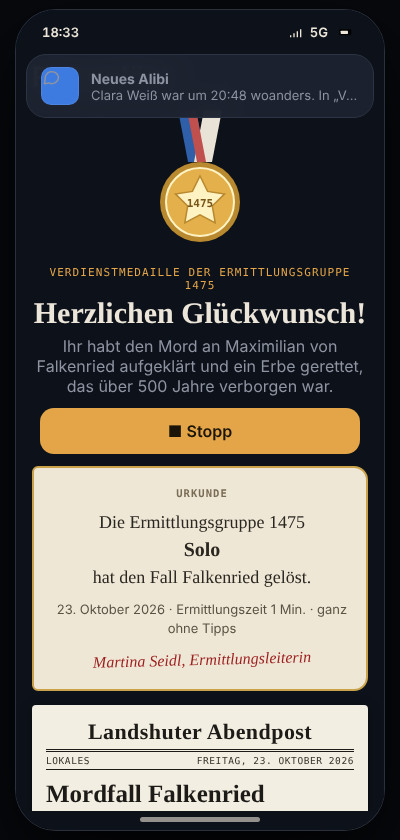
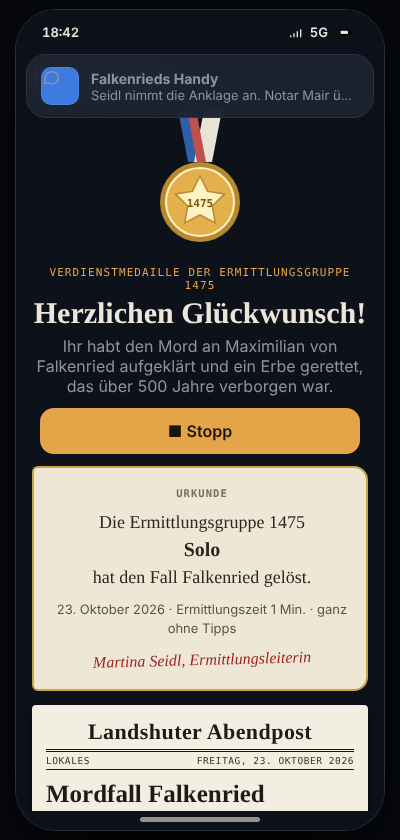
Geführte Hinweise: roter Punkt pro Eintrag, Meldung „Neuer Hinweis“ mit Direktsprung, Hinweisleiste im Auftrag; Siegel der Wittelsbacher
Claude-Session: https://claude.ai/code/session_01WNJHfocEY1Zejxyfbb2F8F

Changed region(s): [[0.24, 0.0619, 0.87, 0.1238], [0.15, 0.031, 0.21, 0.0619]]

diff --git a/src/index.html b/src/index.html
@@ -260,6 +260,10 @@ button:focus-visible,input:focus-visible{outline:2px solid var(--amber);outline-
 .mission .k{font-family:var(--font-mono);font-size:10.5px;letter-spacing:.1em;text-transform:uppercase;color:var(--amber);display:flex;justify-content:space-between;gap:8px}
 .mission .tx{font-size:14.5px;line-height:1.45}
 .mission .clue{font-family:var(--font-display);font-size:19px;line-height:1.3;font-style:italic}
+.ndot{display:inline-block;width:9px;height:9px;border-radius:50%;background:var(--decline);margin-left:6px;vertical-align:middle;box-shadow:0 0 0 2px #0008;flex:none}
+.newsrow{display:flex;align-items:center;gap:10px;width:100%;text-align:left;padding:10px 12px;border-radius:12px;background:#e0555522;border:1px solid #e0555566;font-size:14px;font-weight:600;color:var(--text,#ece6da)}
+.newsrow .ndot{margin:0}.newsrow small{display:block;font-weight:400;color:var(--muted);font-size:12px;margin-top:2px}.newsrow .go2{margin-left:auto;color:#ff8a8a;font-size:13px;white-space:nowrap}
+.ddots i.nw{background:var(--decline)!important}
 .mission .acts{display:flex;flex-wrap:wrap;gap:8px}
 .mission .acts button{padding:8px 12px;border-radius:10px;background:var(--surface-2);font-size:13px;font-weight:600}
 .mission .acts button.tip{margin-left:auto;background:#e3a5481f;color:var(--amber)}
@@ -474,7 +478,7 @@ const CONTENT = {
   evidence: {
     E01:{ t:"Hochzeitsrechnung 1475", d:"Abschrift aus Falkenrieds Manteltasche. Vermerk: Bezahlt hat nicht der Bräutigam." },
     E03:{ t:"Notizen zur Fassade", d:"Der Kaiser gab Landshut drei Helme ins Wappen. Ludwig X. begann seine Residenz erst 1536. Unter Heinrich dem Reichen begann 1407 der Bau der Heiliggeistkirche." },
-    E05:{ t:"Inventarvergleich", d:"In der Liste von 1503 fehlen die Nummern 2, 5 und 7: Rubinbrosche, zehn goldene Taler, Familiensiegel mit dem W. Falkenried notierte daneben: „Hochzeitsgaben, Kiste A, B, C“." },
+    E05:{ t:"Inventarvergleich", d:"In der Liste von 1503 fehlen die Nummern 2, 5 und 7: Rubinbrosche, zehn goldene Taler, Familiensiegel mit dem W der Wittelsbacher. Falkenried notierte daneben: „Hochzeitsgaben, Kiste A, B, C“." },
     E06:{ t:"Verwahrvermerk Notariat Mair", d:"„Notariat Mair – Verwahrung“. Inhalt geschwärzt." },
     E07:{ t:"Preisnotizen „CW“", d:"Bleistift am Rand von H-1475: „CW: 40.000?“" },
     E08:{ t:"Brief „1503“ – gefälscht", d:"Nennt eine Residenz, deren Bau erst 1536 begann. Zweck laut Seidl: eine falsche Herkunft, damit die Stücke für einen Käufer echt und wertvoll aussehen." },
@@ -529,7 +533,7 @@ try { const raw = localStorage.getItem(KEY); if (raw) S = Object.assign(fresh(),
 let PUZZLE_2, PUZZLE_3, PUZZLE_4, PUZZLE_5, PUZZLE_6, PUZZLE_7, PUZZLE_8;
 const PUZZLE = { 1:() => openFaceLock(), 2:() => PUZZLE_2(), 3:() => PUZZLE_3(), 4:() => PUZZLE_4(), 5:() => PUZZLE_5(), 6:() => PUZZLE_6(), 7:() => PUZZLE_7(), 8:() => PUZZLE_8() };
 const AFTER_CALL = {};
-const APP_VIEW = { notizen:() => openNotebook(), tresor:() => (S.ending ? showEnding() : tresor()) };
+const APP_VIEW = { notizen:() => { if (diaryPages().some(d => isNew("notizen", d.date))) nbPage = null; openNotebook(); }, tresor:() => (S.ending ? showEnding() : tresor()) };
 const localSave = () => { try { localStorage.setItem(KEY, JSON.stringify(S)); } catch(e) {} };
 const save = () => { localSave(); schedulePush(); };
 
@@ -715,7 +719,6 @@ function openFolder(){
 let phoneTab = "anrufe";
 function openPhone(){
   if (newsUnseen("telefon").length) phoneTab = "mailbox";
-  if (phoneTab === "mailbox") newsMark("telefon");
   S.missed = 0; save();
   const list = S.calls.slice().reverse();
   const calls = list.length ? list.map((c,i) => `
@@ -725,10 +728,10 @@ function openPhone(){
       <span class="meta">${esc(c.time)}</span></button>`).join("")
     : `<div class="empty">Noch keine Anrufe.</div>`;
   const box = S.voicemails.length ? S.voicemails.slice().reverse().map(v => { const V = CONTENT.voice[v]; return `
-    <button class="row" data-vm="${v}"><span class="av">▶</span><span class="main"><span class="t">${esc(V.from)}</span>
+    <button class="row" data-vm="${v}"><span class="av">▶</span><span class="main"><span class="t">${esc(V.from)}${isNew("telefon", v) ? '<i class="ndot"></i>' : ""}</span>
     <span class="s">${esc(V.title)}${V.memo ? " · Memo, " + esc(V.memo.split("aufgenommen am ")[1] || "") : ""}</span></span></button>`; }).join("")
     : `<div class="empty">Keine Sprachnachrichten.<br>Falkenrieds Mailbox füllt sich, wenn ihr seinen Spuren folgt.</div>`;
-  openWin("Telefon", `<div class="seg"><button class="${phoneTab==='anrufe'?'on':''}" data-tab="anrufe">Anrufe</button><button class="${phoneTab==='mailbox'?'on':''}" data-tab="mailbox">Mailbox</button></div>${phoneTab==='anrufe'?calls:box}`);
+  openWin("Telefon", `<div class="seg"><button class="${phoneTab==='anrufe'?'on':''}" data-tab="anrufe">Anrufe</button><button class="${phoneTab==='mailbox'?'on':''}" data-tab="mailbox">Mailbox${newsUnseen("telefon").length ? '<i class="ndot"></i>' : ""}</button></div>${phoneTab==='anrufe'?calls:box}`);
   $("#winBody").onclick = e => {
     const tab = e.target.closest("[data-tab]"); if (tab) { phoneTab = tab.dataset.tab; return openPhone(); }
     const r = e.target.closest("[data-call]"); if (r) showCallDetail(S.calls[+r.dataset.call]);
@@ -750,18 +753,17 @@ function showCallDetail(c){
    Nachrichten
    ============================================================ */
 function openThreads(){
-  newsMark("nachrichten");
   const th = S.threads.unbekannt;
   const last = th[th.length-1];
   const mail = S.stage >= 7 ? `<button class="row" data-mail="1"><span class="av">${svg("mail")}</span>
-      <span class="main"><span class="t">Postfach · Kripo</span><span class="s">${S.st.s7 && S.st.s7.decoded ? "ABHOLUNG · Drei Stücke aus der Falkenried-Sammlung" : "Kuriernachricht vom Tatabend, verschlüsselt"}</span></span></button>` : "";
+      <span class="main"><span class="t">Postfach · Kripo${isNew("nachrichten","postfach") ? '<i class="ndot"></i>' : ""}</span><span class="s">${S.st.s7 && S.st.s7.decoded ? "ABHOLUNG · Drei Stücke aus der Falkenried-Sammlung" : "Kuriernachricht vom Tatabend, verschlüsselt"}</span></span></button>` : "";
   const html = (th.length ? `<button class="row" data-thread="unbekannt"><span class="av">?</span>
-      <span class="main"><span class="t">Unbekannt</span><span class="s">${esc(last.text)}</span></span><span class="meta">${esc(last.time)}</span></button>` : "") + mail;
+      <span class="main"><span class="t">Unbekannt${th.some((m, i) => isNew("nachrichten", m.id || "m" + i)) ? '<i class="ndot"></i>' : ""}</span><span class="s">${esc(last.text)}</span></span><span class="meta">${esc(last.time)}</span></button>` : "") + mail;
   openWin("Nachrichten", html || `<div class="empty">Keine Nachrichten.</div>`);
-  $("#winBody").onclick = e => { if (e.target.closest("[data-thread]")) openChat(); if (e.target.closest("[data-mail]")) { if (S.stage === 7 && S.phase === "task" && !ackGate()) return; PUZZLE_7(); } };
+  $("#winBody").onclick = e => { if (e.target.closest("[data-thread]")) openChat(); if (e.target.closest("[data-mail]")) openPostfach(); };
 }
 function openChat(){
-  S.unread = 0; save();
+  S.unread = 0; save(); newsSeen("nachrichten", ...S.threads.unbekannt.map((m, i) => m.id || "m" + i));
   const th = S.threads.unbekannt;
   const html = `<div class="chat"><span class="sys">Nummer unterdrückt</span>${th.map(m => `
     <div class="bub ${m.attachment?'att':''}">${esc(m.text)}${m.attachment?`<br><br><button class="attbtn" data-att="${esc(m.attachment)}">📎 ${esc(m.attachment)} <span style="font-size:12px;opacity:.7">· öffnen</span></button>`:""}<span class="when">${esc(m.time)}</span></div>`).join("")}</div>`;
@@ -800,18 +802,18 @@ function alibiCheck(){
   const names = add.map(id => CONTENT.suspects.find(p => p.id === id).name).join(", ");
   setTimeout(() => banner("Neues Alibi", names + " war um 20:48 woanders. In „Verdächtige“ streichen.", () => { closeSheet(); openSuspects(); }), $("#banner") ? 6500 : 0);
 }
-setInterval(alibiCheck, 1500);
+/* Alibis melden jetzt die allgemeinen Hinweise (newsCheck) */
 function personCard(p, cls, attr){
   return `<button class="card ${cls||""}" ${attr||""}>
-    <span class="av">${p.photo ? `<img src="${p.photo.replace(".jpg","_av.jpg")}" alt="">` : esc(p.name[0])}</span><span class="n">${esc(p.name)}, ${p.age}</span>
+    <span class="av">${p.photo ? `<img src="${p.photo.replace(".jpg","_av.jpg")}" alt="">` : esc(p.name[0])}</span><span class="n">${esc(p.name)}, ${p.age}${CONTENT.suspects.includes(p) && (isNew("verdaechtige", p.id) || (alibiOf(p.id) && isNew("verdaechtige", "alibi:" + p.id))) ? '<i class="ndot"></i>' : ""}</span>
     <span class="r">${esc(p.role)}</span><span class="q">${esc(p.note)}${p.says?`<br><i>${esc(p.says)}</i>`:""}${alibiOf(p.id) ? `<br><span style="color:#6fbf8a">✓ Alibi: ${esc(alibiOf(p.id))}${(cls||"").includes("struck") ? "" : " Tippen zum Streichen."}</span>` : ""}</span></button>`;
 }
 function openSuspects(){
-  closeSheet(); newsMark("verdaechtige");
+  closeSheet();
   const html = `<button class="btn" id="castBtn" style="margin-top:0">Wer ist wer? Übersicht aller Personen</button><div class="sec">Opfer</div>${personCard(CONTENT.victim,"","data-person=\"victim\"")}
     ${S.stage >= 7 ? `<div class="sec">Zeitplan Tatabend · Wer war um 20:48 woanders?</div>${timelineSvg()}` : ""}
     <div class="sec">Gäste und Beteiligte · Vernehmungen in jeder Akte</div>
-    ${CONTENT.suspects.filter(p => p.id !== "feld" || S.stage > 6 || (S.st.s6 && S.st.s6.callDone)).map(p => personCard(p, S.struck.includes(p.id)?"struck":"", `data-sus="${p.id}"`)).join("")}
+    ${visibleSuspects().map(p => personCard(p, S.struck.includes(p.id)?"struck":"", `data-sus="${p.id}"`)).join("")}
     <div class="sec">Zeugin</div>${personCard(CONTENT.witness,"","data-person=\"witness\"")}
     <div class="sec">Ermittlung</div>${personCard(CONTENT.lead,"","data-person=\"lead\"")}`;
   openWin("Verdächtige", html);
@@ -831,6 +833,8 @@ function openSuspects(){
 }
 function showSuspect(p){
   const struck = S.struck.includes(p.id);
+  newsSeen("verdaechtige", p.id, ...(alibiOf(p.id) ? ["alibi:" + p.id] : []));
+  document.querySelectorAll(`#winBody [data-sus="${p.id}"] .ndot`).forEach(x => x.remove());
   sheet(`${p.photo ? `<img class="portrait" src="${p.photo}" alt="${esc(p.name)}">` : ""}<div class="kind">${esc(p.role)}</div>
     <h2>${esc(p.name)}, ${p.age}</h2><p>${esc(p.note)}</p>
     ${RECORDINGS[p.id] ? `<button class="btn primary" id="recPlay">▶ Vernehmung anhören</button>
@@ -866,13 +870,15 @@ function openHints(){
    Auftrag und Fortschritt
    ============================================================ */
 const curStation = () => CONTENT.stations.find(x => x.id === S.stage);
+function newsBar(){ if (!S.unlocked) return ""; const un = allUnseen(); if (!un.length) return "";
+  return `<button class="newsrow" data-mact="news"><span class="ndot"></span><span>${un.length === 1 ? "Neuer Hinweis" : un.length + " neue Hinweise"}<small>${esc(un[0].t)}${un.length > 1 ? " und mehr" : ""}</small></span><span class="go2">ansehen ›</span></button>`; }
 function missionCard(){
   const st = curStation(); if (!st) return "";
   if (S.phase === "go") {
     const shown = S.revealed[st.id];
     return `<section class="mission" aria-label="Aktueller Auftrag">
       <div class="k"><span>Nächste Spur</span><span>Station ${st.id} von 8</span></div>
-      <div class="clue">„${esc(st.clue)}“</div>${st.src ? `<div class="place" style="margin-top:-4px">– ${esc(st.src)}</div>` : ""}
+      ${newsBar()}<div class="clue">„${esc(st.clue)}“</div>${st.src ? `<div class="place" style="margin-top:-4px">– ${esc(st.src)}</div>` : ""}
       ${shown ? `<div class="place">Ziel: <b>${esc(st.name)}</b> · ${esc(st.spot)}</div>` : ""}
       <div class="acts">
         ${shown ? `<button data-mact="map">Auf der Karte zeigen</button>` : `<button data-mact="reveal" id="revealBtn">${revealLabel()}</button>`}
@@ -882,7 +888,7 @@ function missionCard(){
   }
   return `<section class="mission" aria-label="Aktueller Auftrag">
     <div class="k"><span>Auftrag · ${esc(st.name)}</span><span>Station ${st.id} von 8</span></div>
-    <div class="tx">${esc(S.ending ? "Fall abgeschlossen. Danke, Ermittler." : (st.id === 8 && S.st.accused ? "Mair hat euch die Kassette übergeben. Hört Falkenrieds letzte Nachricht in der Mailbox. Dann öffnet den Tresor." : st.task))}</div>
+    ${newsBar()}<div class="tx">${esc(S.ending ? "Fall abgeschlossen. Danke, Ermittler." : (st.id === 8 && S.st.accused ? "Mair hat euch die Kassette übergeben. Hört Falkenrieds letzte Nachricht in der Mailbox. Dann öffnet den Tresor." : st.task))}</div>
     ${S.ending ? `<div class="acts"><button class="go" data-mact="ending">Auflösung ansehen</button></div>` : `<div class="acts"><button class="go" data-mact="action">${esc(st.id === 8 && S.st.accused ? "Tresor öffnen" : st.action)}</button><button class="tip" data-mact="hint">💡 Tipp</button></div>`}
   </section>`;
 }
@@ -894,6 +900,7 @@ document.addEventListener("click", e => {
   if (act === "arrive") { if (!nearTarget()) { toast(geoText()); return; } S.phase = "task"; S.revealed[st.id] = true; save(); renderHome(); }
   if (act === "action") { closeSheet(); if (!ackGate()) return; PUZZLE[st.id](); }
   if (act === "ending") showEnding();
+  if (act === "news") newsSheet(allUnseen());
   if (act === "hint") openHints();
 });
 function advance(from){
@@ -932,17 +939,17 @@ function openFaceLock(){
 let nbPage = null;
 function diaryPages(){ return CONTENT.diary.filter(d => !d.req || S.notes.includes(d.req)).map(d => d.req === "fassade" ? Object.assign({}, d, { html: d.html + "<br><br>" + NOTES.fassade.html }) : d); }
 function openNotebook(first, jumpReq){
-  newsMark("notizen");
   const pages = diaryPages();
   if (jumpReq) nbPage = pages.findIndex(d => d.req === jumpReq);
+  else if (nbPage === null && pages.some(d => isNew("notizen", d.date))) nbPage = pages.findIndex(d => isNew("notizen", d.date));
   if (nbPage === null || nbPage < 0 || nbPage >= pages.length) nbPage = Math.max(0, pages.findIndex(d => d.start));
-  const d = pages[nbPage];
+  const d = pages[nbPage]; const unseenNb = pages.map(x => isNew("notizen", x.date)); newsSeen("notizen", d.date);
   openWin("Notizen", `${first ? `<div class="target"><div class="t">Entsperrt</div><div class="s">Falkenrieds Tagebuch ist offen. Blättert durch, darin steht, wohin es weitergeht.</div></div>` : ""}
     <div class="diary" id="diary">
       <div class="dpage" id="dpage"><div class="ddate">${esc(d.date)}</div><div class="dtext">${d.html}</div>
         <div class="dfoot">Seite ${nbPage + 1} von ${pages.length}</div></div>
       <div class="dnav"><button id="dPrev" ${nbPage === 0 ? "disabled" : ""} aria-label="Vorherige Seite">‹ früher</button>
-        <span class="ddots">${pages.map((_, i) => `<i class="${i === nbPage ? "on" : ""}"></i>`).join("")}</span>
+        <span class="ddots">${pages.map((_, i) => `<i class="${i === nbPage ? "on" : unseenNb[i] ? "nw" : ""}"></i>`).join("")}</span>
         <button id="dNext" ${nbPage === pages.length - 1 ? "disabled" : ""} aria-label="Nächste Seite">später ›</button></div>
     </div>`);
   const go = dir => { const n = nbPage + dir; if (n < 0 || n >= pages.length) return; nbPage = n; openNotebook(false); const pg = $("#dpage"); if (pg) pg.classList.add(dir > 0 ? "inR" : "inL"); };
@@ -1021,7 +1028,7 @@ function playEvent(id){
   S.seen.push(id); localSave();
   if (CONTENT.calls[id]) { if ($("#call")) { S.seen = S.seen.filter(x => x !== id); setTimeout(() => playEvent(id), 4000); return; } return incomingCall(id); }
   if (CONTENT.voice[id]) return newVoice(id);
-  if (INFOS[id]) return enqueueShow(() => sheet(INFOS[id]), id);
+  if (INFOS[id]) return enqueueShow(() => { sheet(INFOS[id]); if (id === "I_CW04") newsSeen("verdaechtige", "alibi:clara"); }, id);
   const M = CONTENT.messages[id]; if (!M) return;
   S.threads[M.thread].push({ id, text:M.text, attachment:M.attachment, time:nowStr() });
   S.unread++; if (!S.fired.includes(id)) S.fired.push(id); save();
@@ -1044,17 +1051,16 @@ function ackItem(id){ S.acks = S.acks || {}; const a = S.acks[id] || (S.acks[id]
 function pendingAcks(){ return (S.mustSee || []).filter(id => !((S.acks || {})[id] || []).length); }
 /* Apps mit rotem Punkt auf diesem Handy */
 function unreadApps(){
-  return ["verdaechtige","stammbaum","notizen","nachrichten","telefon"].filter(id => { const a = APPS[id]; return !(a.lock && !S.apps.includes(id)) && newsCount(id) > 0; });
+  return Array.from(new Set(allUnseen().filter(x => x.k !== "postfach").map(x => x.app)));
 }
 function ackGate(){
   /* Eigene ungelesene Hinweise kommen immer zuerst, bevor dieses Handy ein Rätsel öffnet */
   if (showQ.length) { pumpShow(); return false; }
-  const ua = DEV.noLimit ? [] : unreadApps();
+  const ua = DEV.noLimit ? [] : allUnseen().filter(x => x.k !== "postfach");
   if (ua.length) {
     sheet(`<div class="kind">Erst die Neuigkeiten</div><h2>Es gibt noch Neues zu sehen</h2>
-      <p>Schaut euch zuerst an, was neu dazugekommen ist. Danach geht es mit dem Rätsel weiter.</p>
-      ${ua.map(id => `<button class="btn" data-openapp="${id}" style="display:flex;align-items:center;gap:10px"><span class="ico" style="background:${APPS[id].bg};width:30px;height:30px;border-radius:8px;display:grid;place-items:center">${svg(APPS[id].icon)}</span>${esc(APPS[id].label)} <span style="margin-left:auto;min-width:22px;height:22px;padding:0 6px;border-radius:11px;background:var(--decline);color:#fff;font-size:12px;font-weight:700;display:grid;place-items:center">${newsCount(id) > 9 ? "9+" : newsCount(id)}</span></button>`).join("")}`);
-    document.querySelectorAll("[data-openapp]").forEach(b => b.onclick = () => { const id = b.dataset.openapp; closeSheet(); (APP_VIEW[id] || APPS[id].open)(); });
+      <p>Schaut euch zuerst diese Hinweise an. Danach geht es mit dem Rätsel weiter.</p>${ua.map(newsRow).join("")}`);
+    document.querySelectorAll("#sheet [data-news]").forEach(b => b.onclick = () => { const x = ua[+b.dataset.news]; closeSheet(); x.open(); });
     return false;
   }
   if (DEV.noLimit || !pendingAcks().length) return true;
@@ -1065,19 +1071,19 @@ function ackGate(){
 setInterval(pumpShow, 700);
 function showMessage(id){
   const M = CONTENT.messages[id];
-  S.unread = Math.max(0, (S.unread || 0) - 1); save(); if (!$("#win")) renderHome();
+  S.unread = Math.max(0, (S.unread || 0) - 1); save(); newsSeen("nachrichten", id); if (!$("#win")) renderHome();
   sheet(`<div class="kind">Neue Nachricht · Unbekannt · Nummer unterdrückt</div>
     <div class="bub" style="margin:10px 0 12px;max-width:100%">${esc(M.text)}</div>
     ${M.attachment ? `<button class="btn primary" id="msgAtt">📎 ${esc(M.attachment)} öffnen</button>` : ""}
     <button class="btn ${M.attachment ? "" : "primary"}" data-close>Schließen</button>`);
   const a = $("#msgAtt"); if (a) a.onclick = () => { const sh = $("#sheet"); if (sh) sh._user = true; closeSheet(); openAttachment(); };
 }
-function banner(title, text, onTap){
+function banner(title, text, onTap, app){
   const old = $("#banner"); if (old) old.remove();
-  const b = document.createElement("button"); b.className = "banner"; b.id = "banner";
-  b.innerHTML = `<span class="ico" style="background:${APPS.nachrichten.bg}">${svg("msg")}</span><span class="main"><b>${esc(title)}</b><span>${esc(text)}</span></span>`;
+  const b = document.createElement("button"); b.className = "banner"; b.id = "banner"; const A = APPS[app] || APPS.nachrichten;
+  b.innerHTML = `<span class="ico" style="background:${A.bg}">${svg(app ? A.icon : "msg")}</span><span class="main"><b>${esc(title)}</b><span>${esc(text)}</span></span>`;
   b.onclick = () => { b.remove(); onTap(); };
-  layer.appendChild(b); setTimeout(() => b.remove(), 6000);
+  layer.appendChild(b); setTimeout(() => b.remove(), app ? 9000 : 6000);
 }
 
 let callTimer = null;
@@ -1395,7 +1401,8 @@ function newVoice(id){
   layer.appendChild(b); setTimeout(() => b.remove(), 9000);
 }
 function playVoice(id, auto){
-  const V = CONTENT.voice[id];
+  const V = CONTENT.voice[id]; newsSeen("telefon", id);
+  document.querySelectorAll(`#winBody [data-vm="${id}"] .ndot`).forEach(x => x.remove()); if (!newsUnseen("telefon").length) document.querySelectorAll(`#winBody [data-tab="mailbox"] .ndot`).forEach(x => x.remove());
   sheet(`${V.photo ? `<img src="${V.photo}" alt="" style="width:56px;height:56px;border-radius:50%;object-fit:cover;float:right;margin-left:10px">` : ""}<div class="kind">${V.memo ? "Aufnahme von vor seinem Tod" : "Sprachnachricht"} · ${esc(V.from)}</div><h2>${esc(V.title)}</h2>${V.memo ? `<p style="font-size:12px;margin:-2px 0 10px">${esc(V.memo)}</p>` : ""}
     <div class="grid2" style="margin-bottom:10px"><button class="btn primary" id="vPlay" style="margin:0">Abspielen</button><button class="btn" data-close style="margin:0">Schließen</button></div>
     <div class="transcript">${esc(V.text)}</div>`);
@@ -1477,7 +1484,7 @@ const WHEEL_OK = ["3","Helm","Rot"];
 /* Station 4: zwei Inventare. 1475 nummeriert (8), 1503 nach Räumen sortiert und anders formuliert (5). Es fehlen 2, 5, 7. */
 const INV75 = [
   [1,"Goldener Hochzeitsbecher"],[2,"Rubinbesetzte Brosche"],[3,"Zwölf silberne Löffel"],[4,"Polnisches Brautkleid aus Brokat"],
-  [5,"Zehn goldene Taler"],[6,"Silberne Gürtelschnalle"],[7,"Familiensiegel mit dem Buchstaben W"],[8,"Reliquienkreuz aus Bergkristall"]
+  [5,"Zehn goldene Taler"],[6,"Silberne Gürtelschnalle"],[7,"Familiensiegel mit dem W der Wittelsbacher"],[8,"Reliquienkreuz aus Bergkristall"]
 ];
 const INV_MISSING = [2, 5, 7];
 const INV03 = [
@@ -1724,7 +1731,7 @@ AFTER_CALL.CALL_06 = () => { if (S.stage !== 6 || !S.st.s6 || S.st.s6.callOk) re
     <p>Seidl: „Habt ihr das gehört? Der Anrufer nannte 20:48 und die Karte R7. Beides stand zu dem Zeitpunkt noch geschwärzt in der Akte. Das kann nur jemand wissen, der an dem Abend an der Archivtür war.“</p>
     <p>Die geschwärzte Zeile ist jetzt frei: Um 20:48 öffnete Karte R7 die Archivtür.</p><button class="btn primary" id="kwOk">Weiter</button>`); $("#kwOk").onclick = () => r7Question(); }, 600); };
 function r7Question(){
-  const st = S.st.s6;
+  const st = S.st.s6; newsSeen("verdaechtige", "feld");
   sheet(`<div class="kind">Neue Person · Ermittlungsleiterin Seidl</div>
     <div style="display:flex;gap:12px;align-items:center;margin:6px 0 10px"><img src="img/feld_av.jpg" alt="" style="width:60px;height:60px;border-radius:50%;object-fit:cover;flex:none"><div><b>Jonas Feld, 39</b><div style="font-size:13px;color:var(--muted)">Restaurator, arbeitete für Falkenried im Archiv</div></div></div>
     <p>Seidl: „Die Karte R7 gehört Jonas Feld. Er hat für Falkenried an den Urkunden im Archiv gearbeitet. Wir haben ihn telefonisch erreicht: Er war an dem Abend in Regensburg, das bestätigen drei Kollegen. Die Karte hat er seit einer Woche vermisst. Zuletzt hatte er sie im Archiv, wo Dr. Dorn arbeitet.“</p>
@@ -1734,7 +1741,7 @@ function r7Question(){
   const fr = $("#feldRec"); if (fr) fr.onclick = () => toggleRec("feld", fr);
   document.querySelectorAll("[data-r7]").forEach(b => b.onclick = () => {
     if (!guard("6.r7")) return;
-    if (b.dataset.r7 === "b") { right("6.r7"); st.r7 = true; addEv("E12","E11"); save(); closeSheet(); done("Neue Spur: die Zeugin hat noch etwas gehört.", 6); setTimeout(() => fire("V_ZEUGIN"), 900); }
+    if (b.dataset.r7 === "b") { right("6.r7"); st.r7 = true; addEv("E12","E11"); save(); newsSeen("verdaechtige", "alibi:feld"); closeSheet(); done("Neue Spur: die Zeugin hat noch etwas gehört.", 6); setTimeout(() => fire("V_ZEUGIN"), 900); }
     else { $("#r7Msg").textContent = "Er war in Regensburg. Was zeigt die Karte also wirklich?"; wrong("6.r7"); }
   });
 }
@@ -1764,7 +1771,7 @@ PUZZLE_7 = function(){
     };
     return;
   }
-  newsMark("mail");
+  newsSeen("nachrichten","postfach");
   openWin("Postfach", `<div class="nb" style="font-size:15px;font-family:var(--font-mono)"><h3>Vertraulich · 19.12.2026 · 19:30 Uhr</h3>ABHOLUNG<br><br>Drei Stücke aus der Falkenried-Sammlung: Brosche, Taler, Siegel.<br>Anbieter: <b>HD</b> · Käufer: <b>CW-04</b><br>Übergabe: <b>Ringelstecherwiese</b>, sobald die Ware greifbar ist.</div>
     <div class="hint"><h3>Handyauswertung Clara Weiß (Kripo)</h3><p>Die Kripo hat nach dem Käufercode CW-04 gesucht und ihn in Clara Weiß' Handy gefunden: Sie telefonierte von 20:44 bis 20:50 mit genau diesem Käufer. Deshalb hat sie über den Abend gelogen, sie verhandelte heimlich.</p></div>
     <div class="target"><div class="t">Streicht, wer um 20:48 nachweislich woanders war</div><div class="s">Öffnet „Verdächtige“ und streicht alle mit sicherem Alibi. Wer übrig bleibt, war es.</div>
@@ -1867,7 +1874,7 @@ function newsArticle(names, dateStr){
     <figure><div id="tpSlot"><div class="photoPh">Foto der Ermittler</div></div><figcaption>Sie haben den Fall gelöst: ${esc(team)}.</figcaption></figure>
     <p><b>Landshut.</b> Der Tod des Kunstsammlers Maximilian von Falkenried (62) ist aufgeklärt. Falkenried war am Abend seines Adventsdinners in seinem Archiv getötet worden. Tatverdächtig ist Dr. Helena Dorn, die das Archiv des Sammlers betreute. Sie wurde auf der Ringelstecherwiese festgenommen, als sie eine Kassette aus Falkenrieds Nachlass abholen wollte, und sitzt in Untersuchungshaft.</p>
     <p>Dorn hatte die Ermittler als anonyme Anruferin auf eine falsche Spur gelockt. Verraten hat sie sich durch Details zur Tatzeit, die nur die Täterin kennen konnte. Die Ermittlungsgruppe 1475 folgte ihren Spuren durch die Altstadt, von St. Martin bis zum Ländtor.</p>
-    <p>„Ohne dieses Team wäre der Fall nicht gelöst worden“, sagt Kriminalhauptkommissarin Martina Seidl. Die Kassette enthielt eine Rubinbrosche, zehn goldene Taler und ein Familiensiegel mit dem Buchstaben W. Alles geht an die Stadt Landshut.</p></article>`;
+    <p>„Ohne dieses Team wäre der Fall nicht gelöst worden“, sagt Kriminalhauptkommissarin Martina Seidl. Die Kassette enthielt eine Rubinbrosche, zehn goldene Taler und ein Familiensiegel mit dem W der Wittelsbacher. Alles geht an die Stadt Landshut.</p></article>`;
 }
 function teamNames(){ return Object.values(S.devices || {}).filter(d => !d.removed && d.name).map(d => d.name); }
 function showEnding(){
@@ -1886,7 +1893,7 @@ function showEnding(){
       <span class="red" style="text-align:center">Martina Seidl, Ermittlungsleiterin</span></div>
     ${newsArticle(names, new Date().toLocaleDateString("de-DE",{ weekday:"long", day:"numeric", month:"long", year:"numeric" }))}
     <div class="hint" style="display:flex;gap:12px;align-items:flex-start;margin-top:12px"><img src="img/seidl_av.jpg" alt="" style="width:52px;height:52px;border-radius:50%;object-fit:cover;flex:none"><p style="margin:0"><b>Seidl:</b> „Wir haben sie. Dr. Helena Dorn kam an den Rand der Wiese, um die Kassette abzuholen. Wir haben sie festgenommen. Gute Arbeit, Ermittlungsgruppe 1475.“</p></div>
-    <div class="sec">Die Auflösung</div><div class="nb"><h3>Akte 1475 · geschlossen</h3>Die Kassette ist offen: eine Rubinbrosche, zehn goldene Taler, ein Familiensiegel mit dem Buchstaben W. Das Erbe Elisabeths, 523 Jahre verborgen.<br><br>
+    <div class="sec">Die Auflösung</div><div class="nb"><h3>Akte 1475 · geschlossen</h3>Die Kassette ist offen: eine Rubinbrosche, zehn goldene Taler, ein Familiensiegel mit dem W der Wittelsbacher. Das Erbe Elisabeths, 523 Jahre verborgen.<br><br>
     Die Stimme am Telefon war <b>Dr. Helena Dorn</b>. Sie brauchte euch, um an die Kassette zu kommen. Verraten hat sie sich am Telefon: Sie kannte Uhrzeit und Karte, bevor beides bekannt war.
     <span class="red">Das Erbe geht zurück nach Landshut.</span></div>
     <div class="sec">Was war echt?</div>
@@ -2152,6 +2159,7 @@ function showCast(after){
     ${castRow(null, "Ihr", "Ermittlungsgruppe 1475. Ihr habt Falkenrieds Handy.")}
     <p style="margin-top:12px">Diese Übersicht findet ihr jederzeit in „Verdächtige“.</p>
     <button class="btn primary" id="castOk">Verstanden</button>`);
+  newsSeen("verdaechtige", ...visibleSuspects().map(p => p.id));
   $("#castOk").onclick = () => { closeSheet(); if (after) after(); };
 }
 
@@ -2164,7 +2172,7 @@ function standFacts(){
   if (S.apps.includes("notizen")) f.push("Falkenried forschte über die Landshuter Hochzeit von 1475. Er traute niemandem in seinem Haus und hat seine Spur in der Stadt versteckt.");
   if (e("E03")) f.push("Bezahlt hat die Hochzeit Herzog Ludwig der Reiche, der Vater des Bräutigams Georg.");
   if (S.voicemails.includes("V_ERBE")) f.push("1503 starb Georg ohne Sohn. Seine Tochter Elisabeth sollte erben, es folgte der Landshuter Erbfolgekrieg. Damals brachte jemand drei Kisten heimlich aus der Stadt.");
-  if (e("E05")) f.push("Falkenried hatte die drei Stücke gefunden: Brosche, zehn goldene Taler, Familiensiegel mit dem W. Er gab sie Notar Mair zur Verwahrung. Am Rand steht „CW: 40.000?“, offenbar ein Käufer.");
+  if (e("E05")) f.push("Falkenried hatte die drei Stücke gefunden: Brosche, zehn goldene Taler, Familiensiegel mit dem W der Wittelsbacher. Er gab sie Notar Mair zur Verwahrung. Am Rand steht „CW: 40.000?“, offenbar ein Käufer.");
   if (e("E08")) f.push("Der Brief „1503“ ist eine Fälschung, erstellt unter dem Kürzel von Dr. Helena Dorn und später von Notar Mair geöffnet. Er sollte den Stücken eine falsche Herkunft geben, damit ein Käufer viel dafür zahlt.");
   if (e("E10")) f.push("Dr. Helena Dorn und Clara Weiß haben über den Abend gelogen. Dr. Dorn war noch im Haus, ihr Wagen fuhr erst um 21:02.");
   if (e("E12")) f.push("Um 20:48 öffnete die Karte R7 die Archivtür. Sie gehört Restaurator Jonas Feld, der in Regensburg war. Er verlor sie im Archiv, dort, wo Dr. Dorn arbeitet. Jemand hat seine Karte benutzt.");
@@ -2226,26 +2234,68 @@ function faItems(){
 
 /* Neu-Zähler: pro Handy, wie bei Messengern */
 const NEWS_KEY = "falkenried-news";
-function newsAll(){ try { return JSON.parse(localStorage.getItem(NEWS_KEY) || "{}"); } catch(e) { return {}; } }
-function newsKeys(app){
-  if (app === "fallakte") return faItems().map(x => x.k);
-  if (app === "verdaechtige") { const k = ["victim"].concat(CONTENT.suspects.filter(p => p.id !== "feld" || S.stage > 6 || (S.st.s6 && S.st.s6.callDone)).map(p => p.id)); if (S.voicemails.includes("V_ZEUGIN")) k.push("rosa"); return k; }
-  if (app === "notizen") return S.apps.includes("notizen") ? diaryPages().map(d => d.date) : [];
-  if (app === "nachrichten") return S.stage >= 7 ? ["postfach"] : [];
-  if (app === "telefon") return S.voicemails.slice();
+/* Neuigkeiten pro Handy: jeder Hinweis hat einen Schlüssel. Er gilt als gesehen, sobald er auf diesem Handy geöffnet wurde. */
+function newsAll(){ let a; try { a = JSON.parse(localStorage.getItem(NEWS_KEY) || "{}"); } catch(e) { a = {}; } return a && a._r === (S.resetAt || 0) ? a : { _r:S.resetAt || 0 }; }
+function newsSave(a){ try { localStorage.setItem(NEWS_KEY, JSON.stringify(a)); } catch(e) {} }
+function newsSeen(app, ...keys){ const a = newsAll(); a[app] = Array.from(new Set((a[app] || []).concat(keys))); newsSave(a); }
+function isNew(app, key){ return !(newsAll()[app] || []).includes(key); }
+const NEWS_APPS = ["verdaechtige","notizen","nachrichten","telefon"];
+function visibleSuspects(){ return CONTENT.suspects.filter(p => p.id !== "feld" || S.stage > 6 || (S.st.s6 && S.st.s6.callDone)); }
+function openPostfach(){ newsSeen("nachrichten","postfach"); closeSheet(); if (S.stage === 7 && S.phase === "task" && !ackGate()) return; PUZZLE_7(); }
+function newsItems(app){
+  if (app === "verdaechtige") { const out = [];
+    visibleSuspects().forEach(p => { out.push({ k:p.id, t:"Neue Person: " + p.name, open:() => showSuspect(p) });
+      if (alibiOf(p.id)) out.push({ k:"alibi:" + p.id, t:"Alibi für " + p.name + (S.struck.includes(p.id) ? "" : ", jetzt streichen"), open:() => showSuspect(p) }); });
+    return out; }
+  if (app === "telefon") return S.voicemails.map(v => ({ k:v, t:(CONTENT.voice[v].memo ? "Aufnahme: " : "Sprachnachricht: ") + CONTENT.voice[v].title, open:() => playVoice(v) }));
+  if (app === "notizen") return S.apps.includes("notizen") ? diaryPages().map((d, i) => ({ k:d.date, t:"Tagebuch, Seite vom " + d.date, open:() => { nbPage = i; openNotebook(false); } })) : [];
+  if (app === "nachrichten") return S.threads.unbekannt.map((m, i) => ({ k:m.id || "m" + i, t:"Nachricht von Unbekannt", open:() => { closeSheet(); openChat(); } }))
+    .concat(S.stage >= 7 ? [{ k:"postfach", t:"Postfach: Kuriernachricht vom Tatabend", open:openPostfach }] : []);
   return [];
 }
+function newsKeys(app){ return app === "fallakte" ? faItems().map(x => x.k) : newsItems(app).map(x => x.k); }
 function newsCount(app){
   if (app === "fallakte") return 0; /* Fallakte ist Nachschlagewerk: alles darin wurde schon an seiner Quelle gezeigt */
   if (app === "stammbaum") return treeSeen().length ? treeNew().length : 0;
-  const seen = newsAll()[app] || [];
-  let n = newsKeys(app).filter(k => !seen.includes(k)).length;
+  let n = newsItems(app).filter(x => isNew(app, x.k)).length;
   if (app === "telefon") n += S.missed || 0;
-  if (app === "nachrichten") n += S.unread || 0;
   return n;
 }
-function newsUnseen(app){ const seen = newsAll()[app] || []; return newsKeys(app).filter(k => !seen.includes(k)); }
-function newsMark(app){ const a = newsAll(); a[app] = Array.from(new Set((a[app] || []).concat(newsKeys(app)))); try { localStorage.setItem(NEWS_KEY, JSON.stringify(a)); } catch(e) {} }
+function newsUnseen(app){ return newsKeys(app).filter(k => isNew(app, k)); }
+function newsMark(app){ newsSeen(app, ...newsKeys(app)); }
+function appOpen(app){ const a = APPS[app]; return !(a.lock && !S.apps.includes(app)); }
+/* Alle ungesehenen Hinweise auf diesem Handy, in der Reihenfolge, in der man sie ansehen sollte */
+function allUnseen(){
+  const out = [];
+  NEWS_APPS.filter(appOpen).forEach(app => newsItems(app).forEach(x => { if (isNew(app, x.k)) out.push(Object.assign({ app }, x)); }));
+  if (treeSeen().length && treeNew().length) out.push({ app:"stammbaum", k:"tree", t:"Stammbaum: " + treeNew().map(id => TREE[id].n).join(", "), open:() => { closeSheet(); openTree(); } });
+  return out;
+}
+function newsRow(x, i){ return `<button class="newsrow" data-news="${i}" style="margin-bottom:8px"><span class="ndot"></span><span>${esc(x.t)}<small>${esc(APPS[x.app].label)}</small></span><span class="go2">ansehen ›</span></button>`; }
+function newsSheet(list, title){
+  if (list.length === 1) { closeSheet(); return list[0].open(); }
+  sheet(`<div class="kind">Neue Hinweise</div><h2>${esc(title || "Das ist neu")}</h2><p>Tippt jeden Hinweis an. Danach verschwindet der rote Punkt.</p>${list.map(newsRow).join("")}<button class="btn" data-close>Später</button>`);
+  document.querySelectorAll("#sheet [data-news]").forEach(b => b.onclick = () => { const x = list[+b.dataset.news]; closeSheet(); x.open(); });
+}
+/* Meldung „Neuer Hinweis“, sobald etwas Neues da ist, das nicht ohnehin direkt angezeigt wird */
+let newsPend = {}, newsLastN = -1;
+function newsCheck(){
+  if (!S.unlocked) return;
+  const a = newsAll();
+  if (!a._b) { NEWS_APPS.forEach(app => a[app] = Array.from(new Set((a[app] || []).concat(newsItems(app).map(x => x.k))))); a._b = 1; a._ann = []; newsSave(a); return; }
+  const un = allUnseen();
+  if (un.length !== newsLastN) { newsLastN = un.length; if (!$("#win") && !$("#call")) renderHome(); }
+  if ($("#call") || showQ.length || document.querySelector("#sheet[data-ack]")) return; /* direkt angezeigte Hinweise haben Vorrang */
+  const ann = a._ann || [];
+  const fresh = un.filter(x => x.app !== "stammbaum" && !ann.includes(x.app + ":" + x.k));
+  const ready = fresh.filter(x => newsPend[x.app + ":" + x.k]); fresh.forEach(x => newsPend[x.app + ":" + x.k] = 1);
+  if (!ready.length) return;
+  a._ann = ann.concat(ready.map(x => x.app + ":" + x.k)); newsSave(a);
+  const one = ready.length === 1;
+  banner("Neuer Hinweis · " + (new Set(ready.map(x => x.app)).size === 1 ? APPS[ready[0].app].label : "mehrere Apps"), one ? ready[0].t + " · Tippen zum Ansehen" : ready.length + " neue Hinweise, z. B. " + ready[0].t + " · Tippen zum Ansehen",
+    () => { closeSheet(); newsSheet(ready); }, ready[0].app);
+}
+setInterval(newsCheck, 1500);
 
 function openFallakte(){
   closeSheet();
